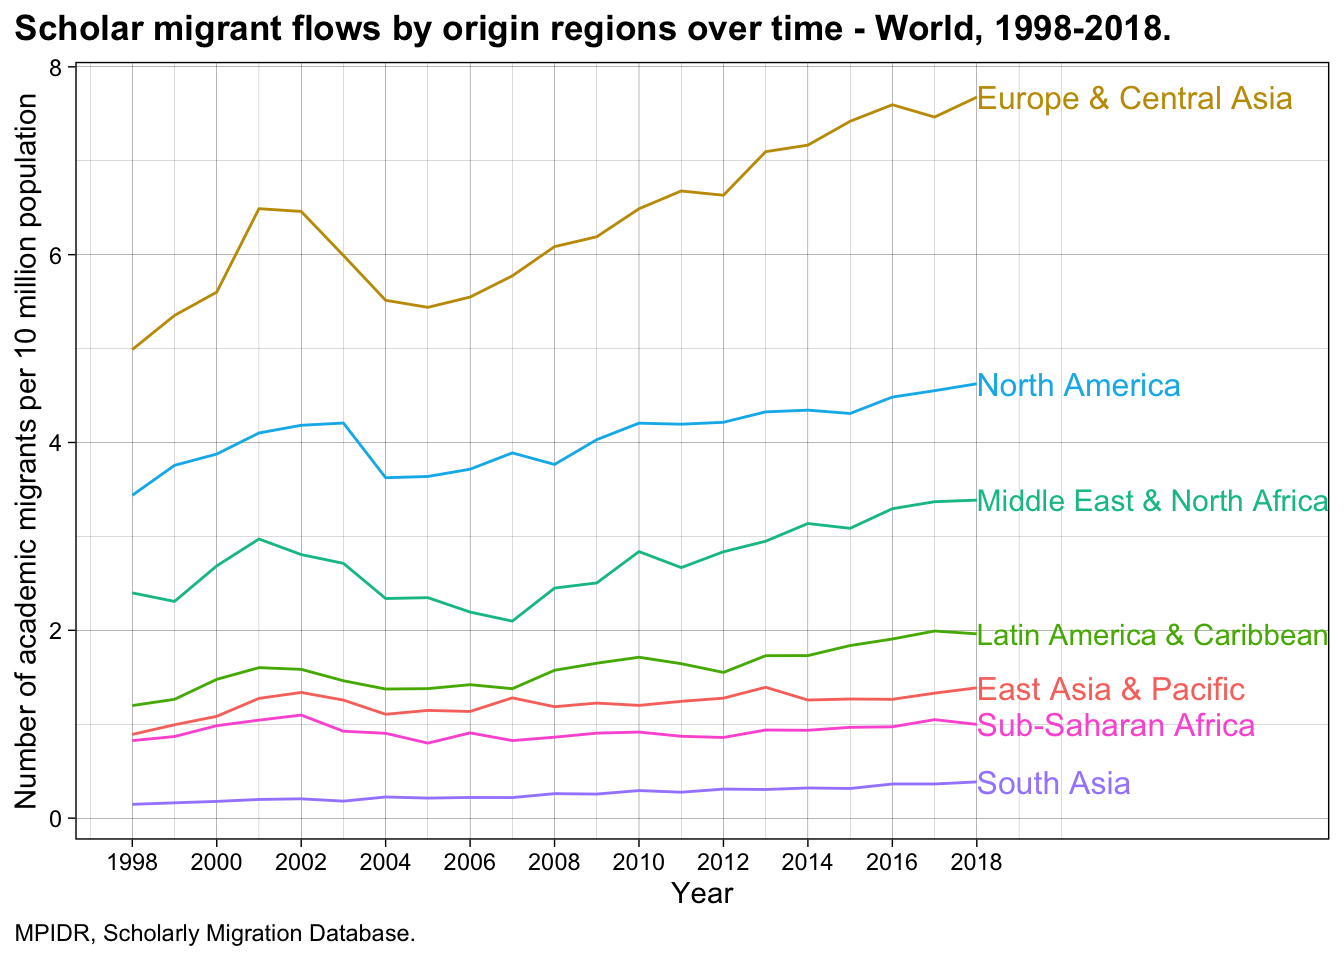
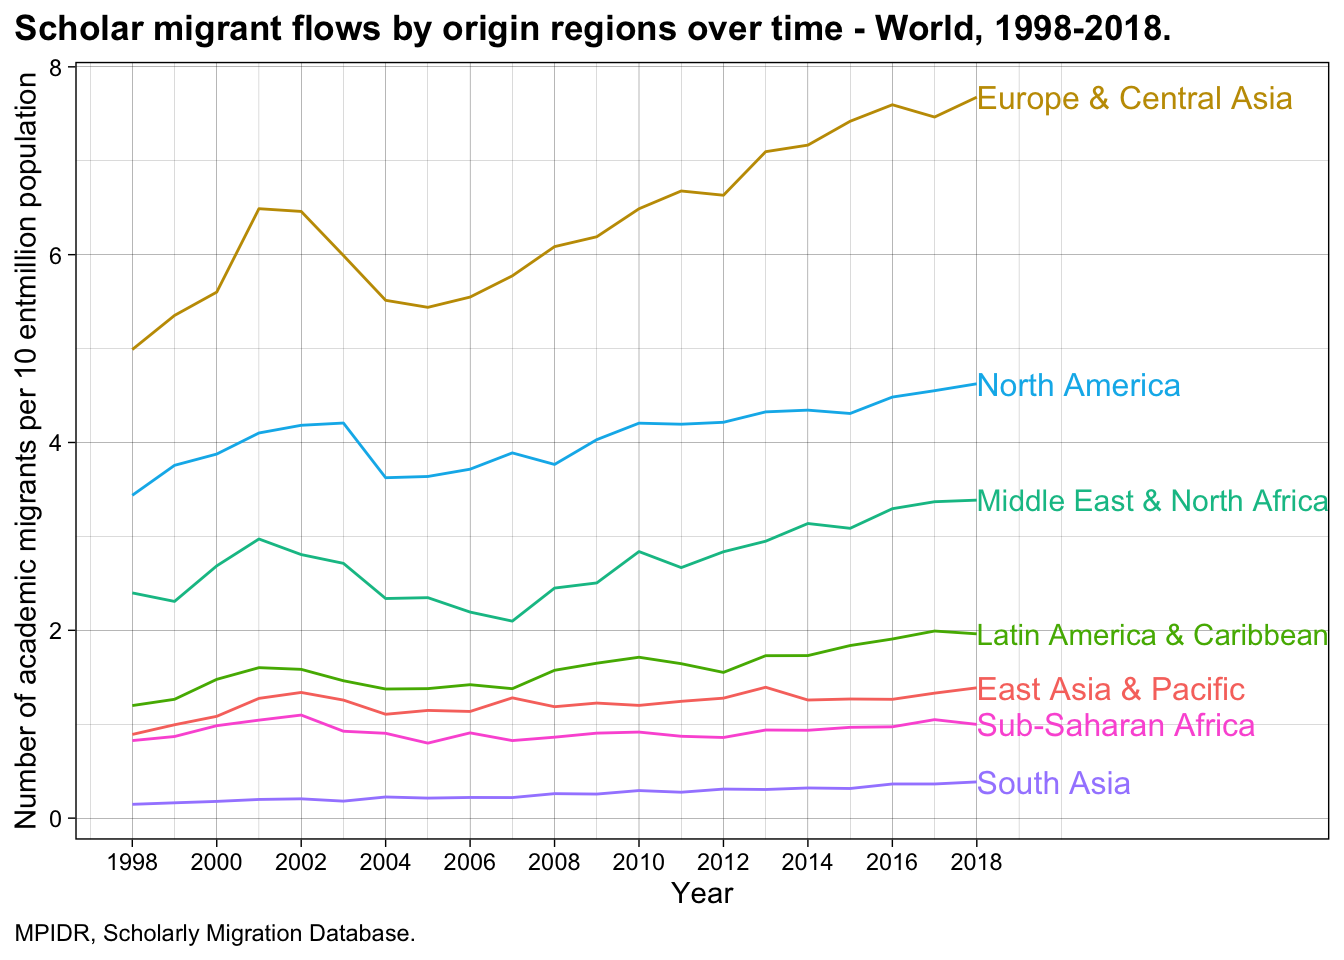
add rendered page

Changed region(s): [[0.0, 0.0938, 0.0312, 0.875]]

diff --git a/docs/index.html b/docs/index.html
@@ -174,7 +174,7 @@ $ populationto   &lt;dbl&gt; 80982500, 30821543, 290107933, 7647675, 127761000, 
 <span id="cb7-8"><a href="#cb7-8" aria-hidden="true" tabindex="-1"></a>  <span class="fu">labs</span>(</span>
 <span id="cb7-9"><a href="#cb7-9" aria-hidden="true" tabindex="-1"></a>    <span class="at">color =</span> <span class="cn">NULL</span>, <span class="co"># Remove the legend title</span></span>
 <span id="cb7-10"><a href="#cb7-10" aria-hidden="true" tabindex="-1"></a>    <span class="at">x =</span> <span class="st">"Year"</span>,</span>
-<span id="cb7-11"><a href="#cb7-11" aria-hidden="true" tabindex="-1"></a>    <span class="at">y =</span> <span class="st">"Number of academic migrants per 10 million population"</span>,</span>
+<span id="cb7-11"><a href="#cb7-11" aria-hidden="true" tabindex="-1"></a>    <span class="at">y =</span> <span class="st">"Number of academic migrants per 10 entmillion population"</span>,</span>
 <span id="cb7-12"><a href="#cb7-12" aria-hidden="true" tabindex="-1"></a>    <span class="at">title =</span> <span class="st">"Scholar migrant flows by origin regions over time - World, 1998-2018."</span>,</span>
 <span id="cb7-13"><a href="#cb7-13" aria-hidden="true" tabindex="-1"></a>    <span class="at">caption =</span> <span class="st">"MPIDR, Scholarly Migration Database."</span></span>
 <span id="cb7-14"><a href="#cb7-14" aria-hidden="true" tabindex="-1"></a>  ) <span class="sc">+</span></span>
